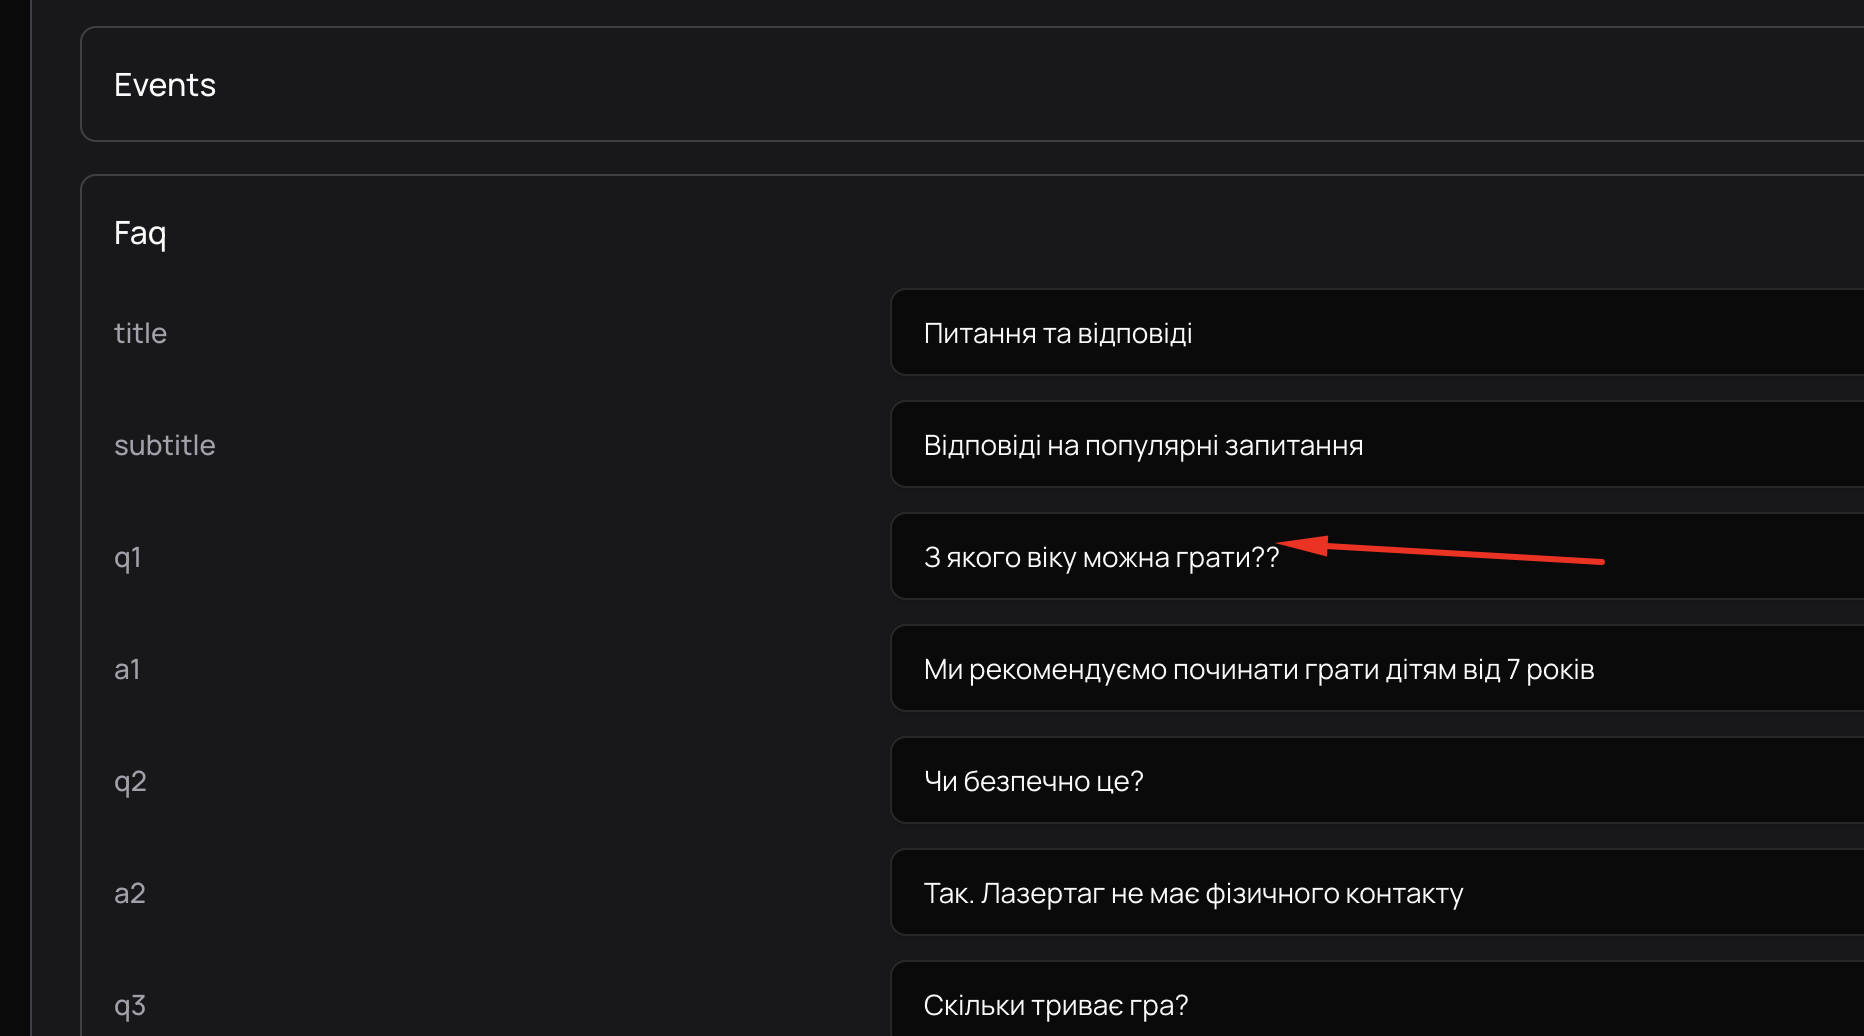
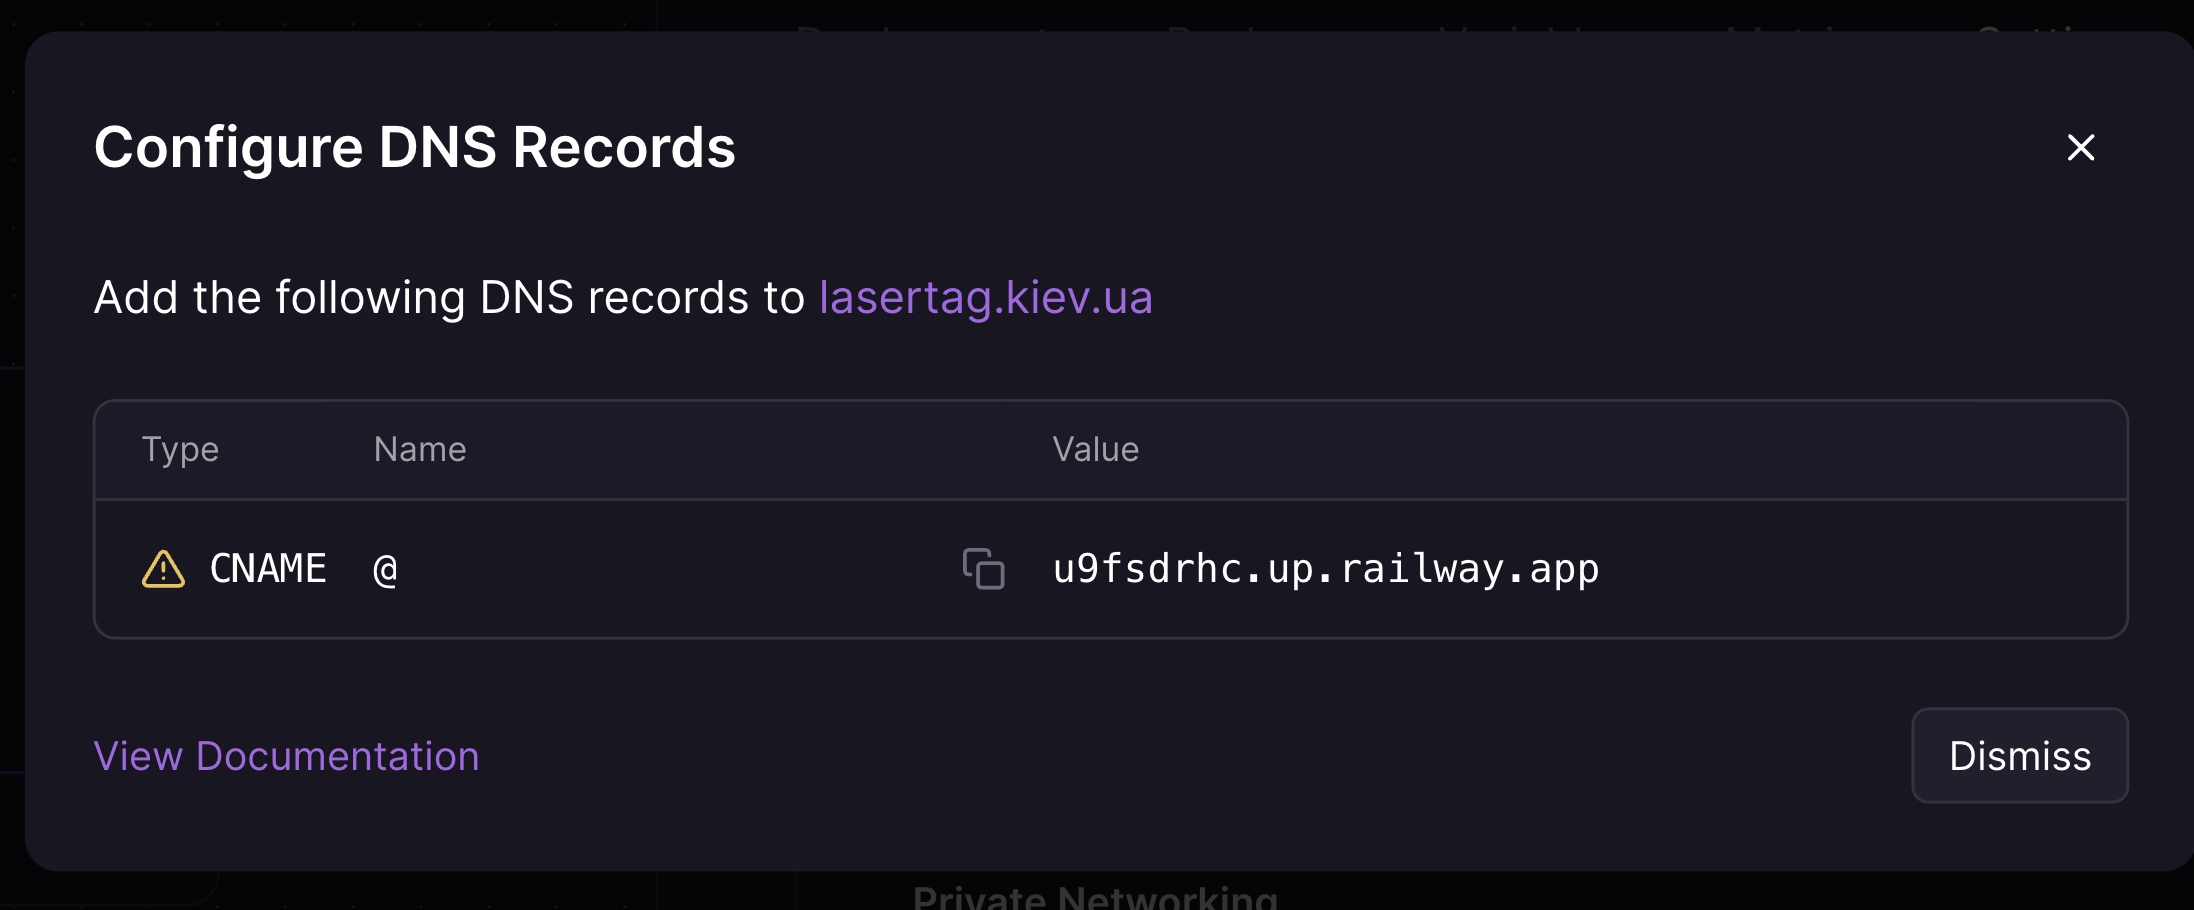
Store uploads in Railway Volume for persistence
- Uploaded images now saved to /app/data/uploads on Railway
- Keeps local uploads folder for development
- Images persist between deploys

diff --git a/server/index.ts b/server/index.ts
@@ -26,8 +26,10 @@ app.use('/api', (req, res, next) => {
   next()
 })
 
-// Create uploads directory if it doesn't exist
-const uploadsDir = path.join(process.cwd(), 'uploads')
+// Create uploads directory - use Volume on Railway, local otherwise
+const uploadsDir = process.env.RAILWAY_ENVIRONMENT
+  ? '/app/data/uploads'
+  : path.join(process.cwd(), 'uploads')
 if (!fs.existsSync(uploadsDir)) {
   fs.mkdirSync(uploadsDir, { recursive: true })
 }
